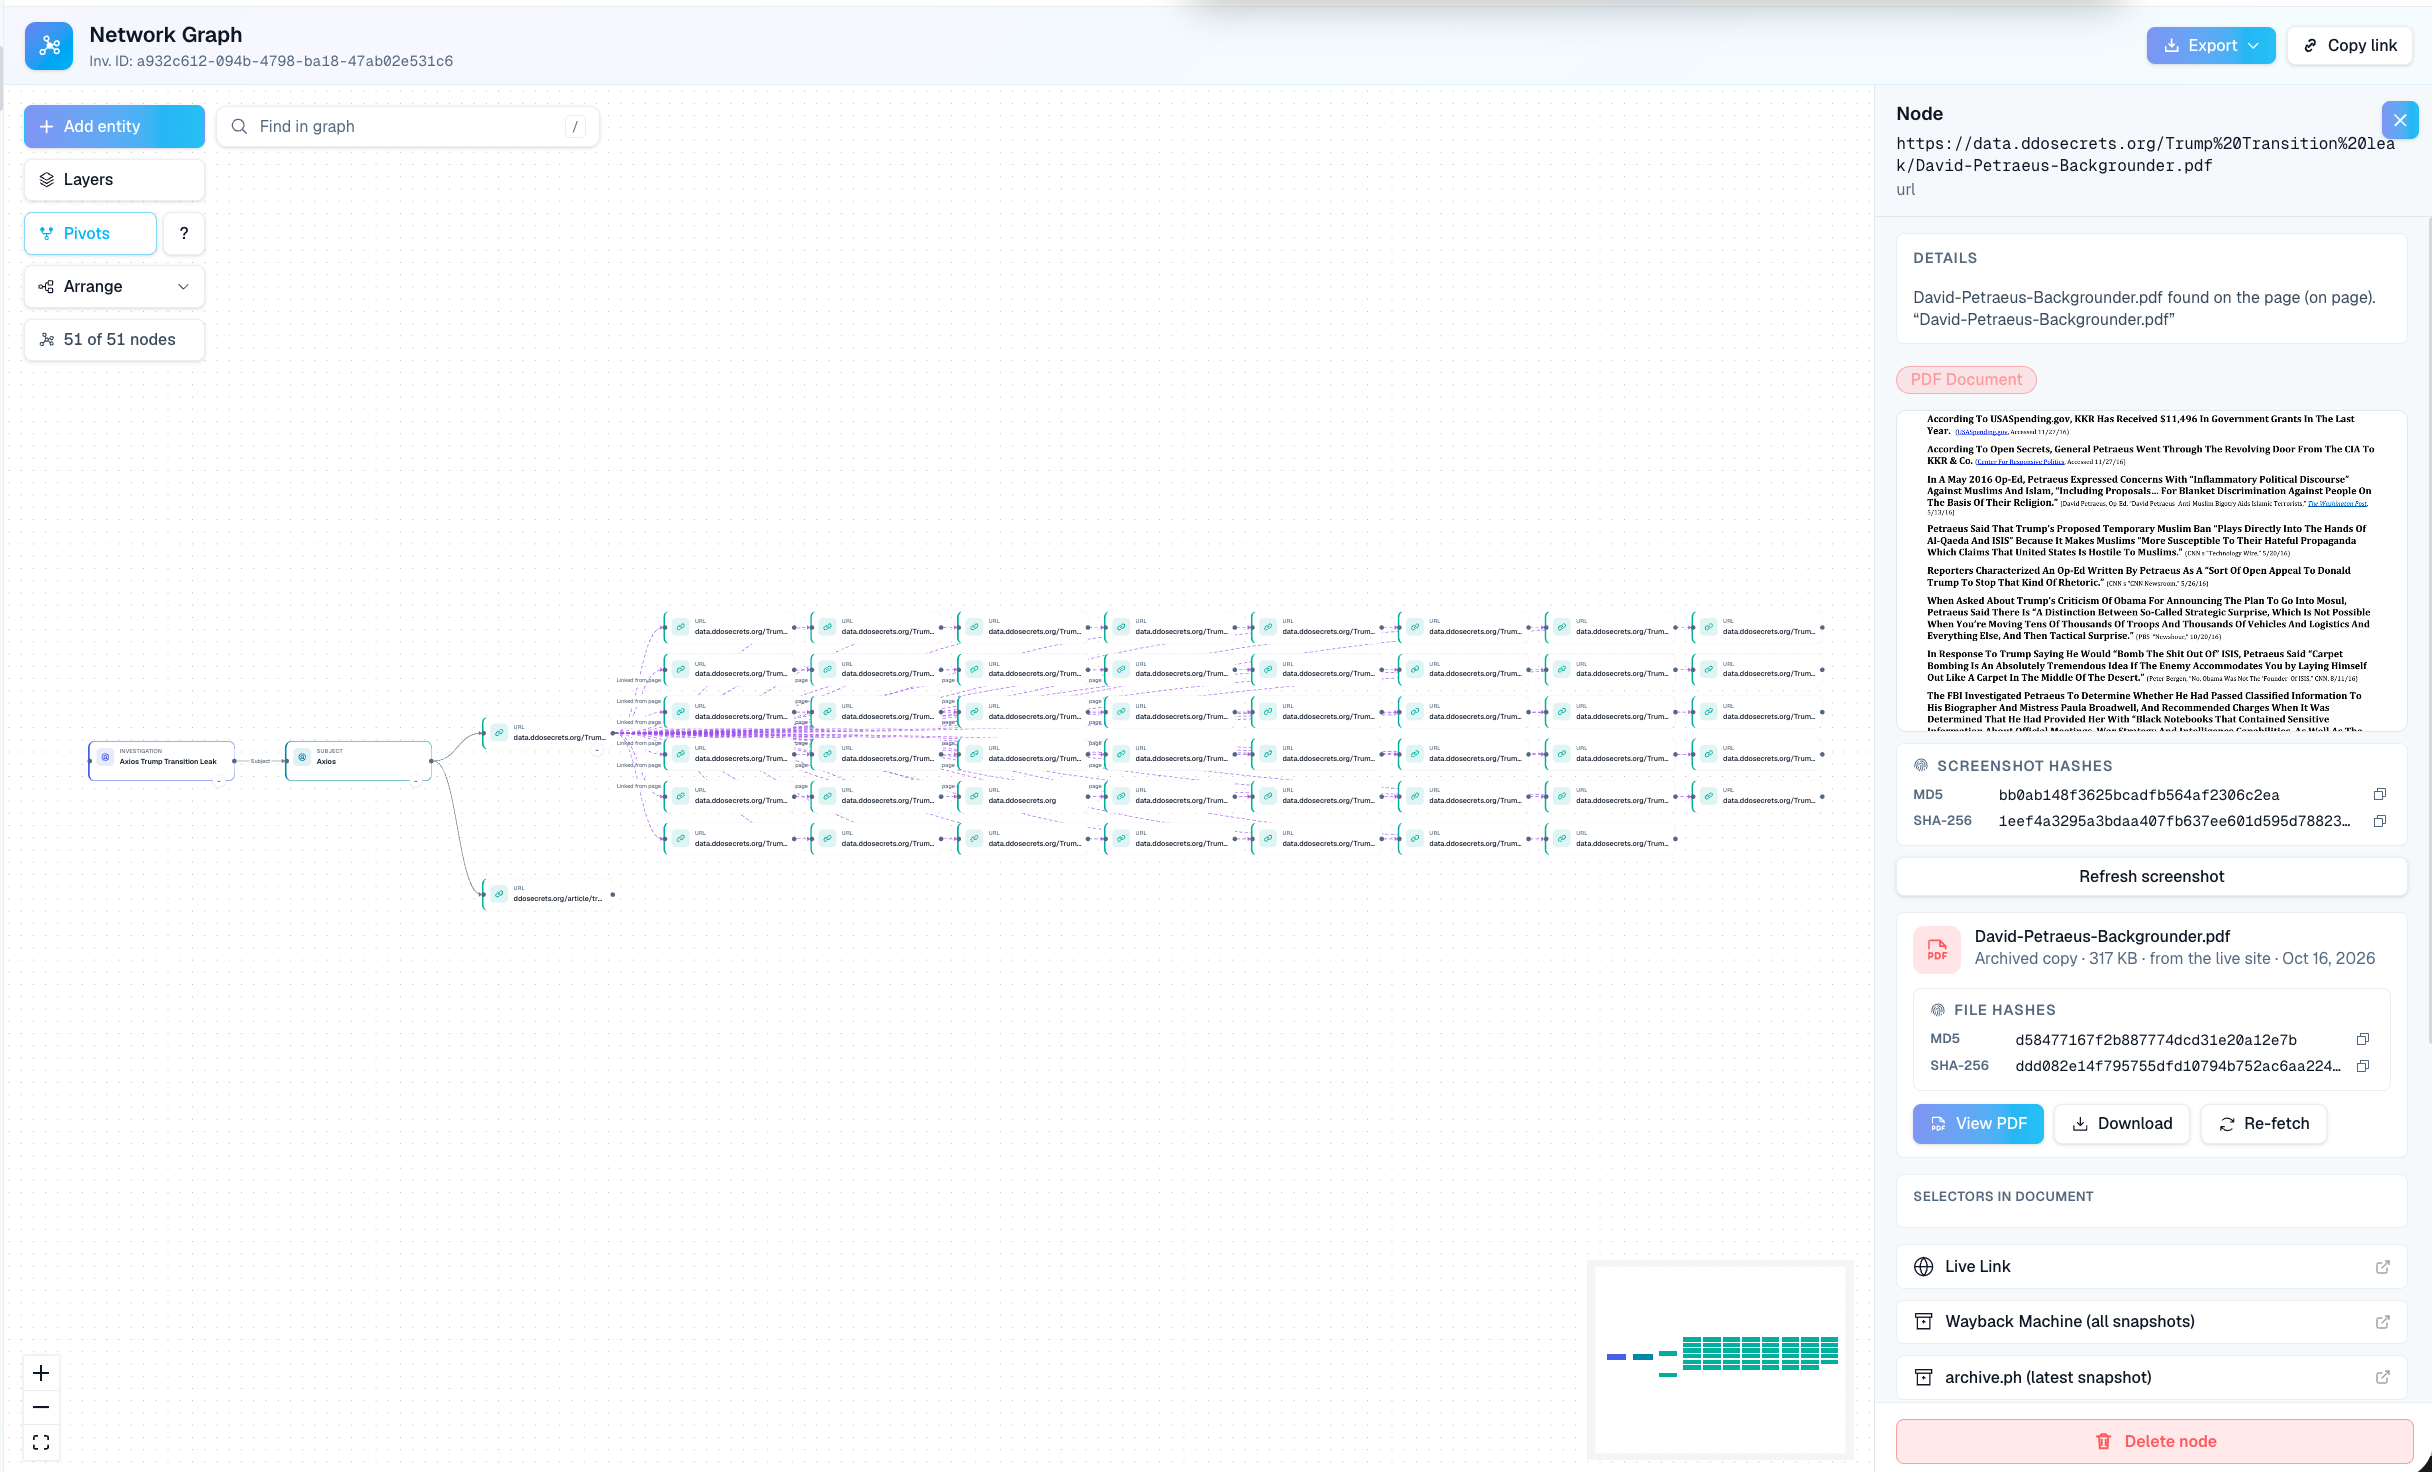
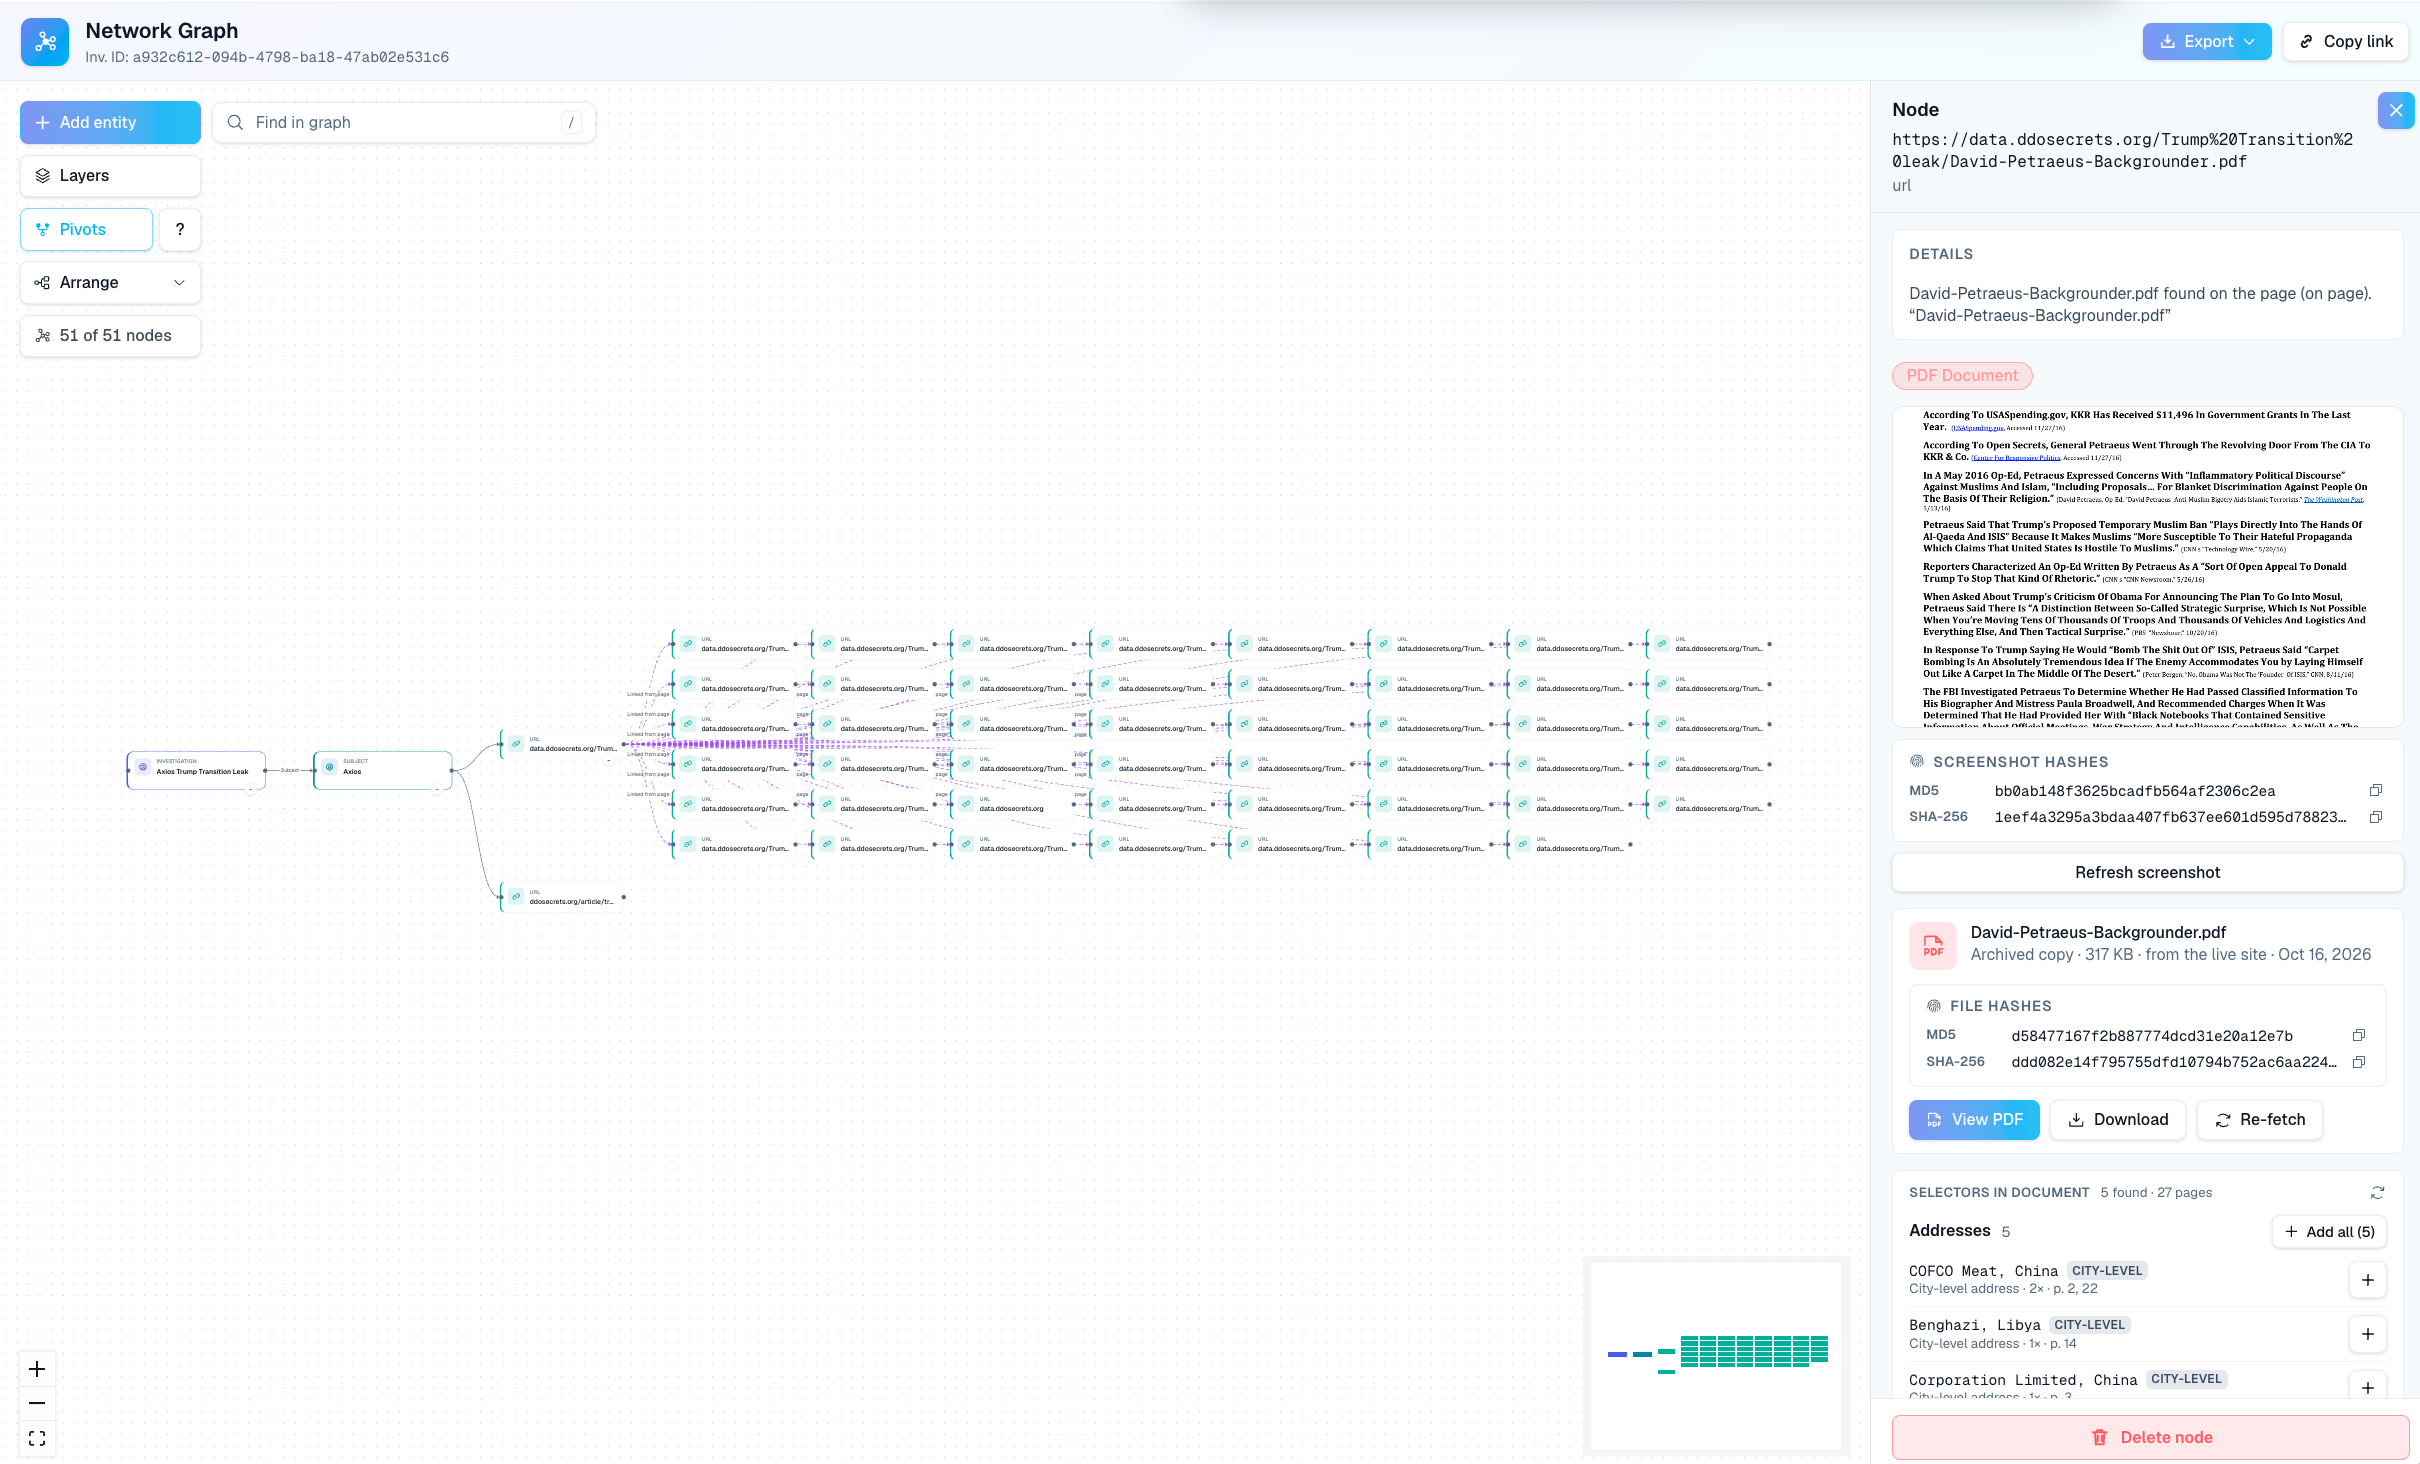
blog: update press-clips graph image (cleaned-up UI)

diff --git a/blog/2026-10-16-white-house-vetting-press-clips-leak/index.html b/blog/2026-10-16-white-house-vetting-press-clips-leak/index.html
@@ -307,7 +307,7 @@
 <p>OctoProbe pointed its crawler at the leak itself. In one round it ran 136 queries and built a graph of fifty-one nodes and fifty links.</p>
 <p>Forty of those nodes are the leaked PDF backgrounders. Each document is stored as an archived copy with MD5 and SHA-256 hashes, digital fingerprints that prove a file hasn&rsquo;t changed since capture.</p>
 <p>Every node also links to its live page, its Wayback Machine snapshots, and its latest Archive.ph copy. If a file is altered or pulled, the record survives.</p>
-<figure><a href="assets/octoprobe-trump-transition-leak-document-graph.png"><img loading="lazy" width="2432" height="1472" alt="OctoProbe network graph of fifty-one nodes mapping the Trump Transition leak on DDoSecrets, with the David Petraeus backgrounder selected, showing a page preview, screenshot and file hashes, and Wayback Machine and Archive.ph links" src="assets/octoprobe-trump-transition-leak-document-graph.png" /></a><figcaption>OctoProbe graph of the Trump Transition leak, with the David Petraeus backgrounder selected. Click to zoom.</figcaption></figure>
+<figure><a href="assets/octoprobe-trump-transition-leak-document-graph.png"><img loading="lazy" width="2420" height="1464" alt="OctoProbe network graph of fifty-one nodes mapping the Trump Transition leak on DDoSecrets, with the David Petraeus backgrounder PDF selected, showing a document preview, screenshot and file hashes, an archived copy, and addresses extracted from the document" src="assets/octoprobe-trump-transition-leak-document-graph.png" /></a><figcaption>OctoProbe graph of the Trump Transition leak, with the David Petraeus backgrounder selected. Click to zoom.</figcaption></figure>
 <p>That is the floor, not the ceiling. A tool that fingerprints and archives forty files on its own can just as easily pull dockets, deeds, and corporate filings. The 2016 vetters worked from clippings.</p>
 <h2>Bottom Line</h2>
 <p>The 2016 vetting files were short, fast, and built from news stories. The office running them was small and young. Nine years later, its director was reported to be working on an interim clearance.</p>
